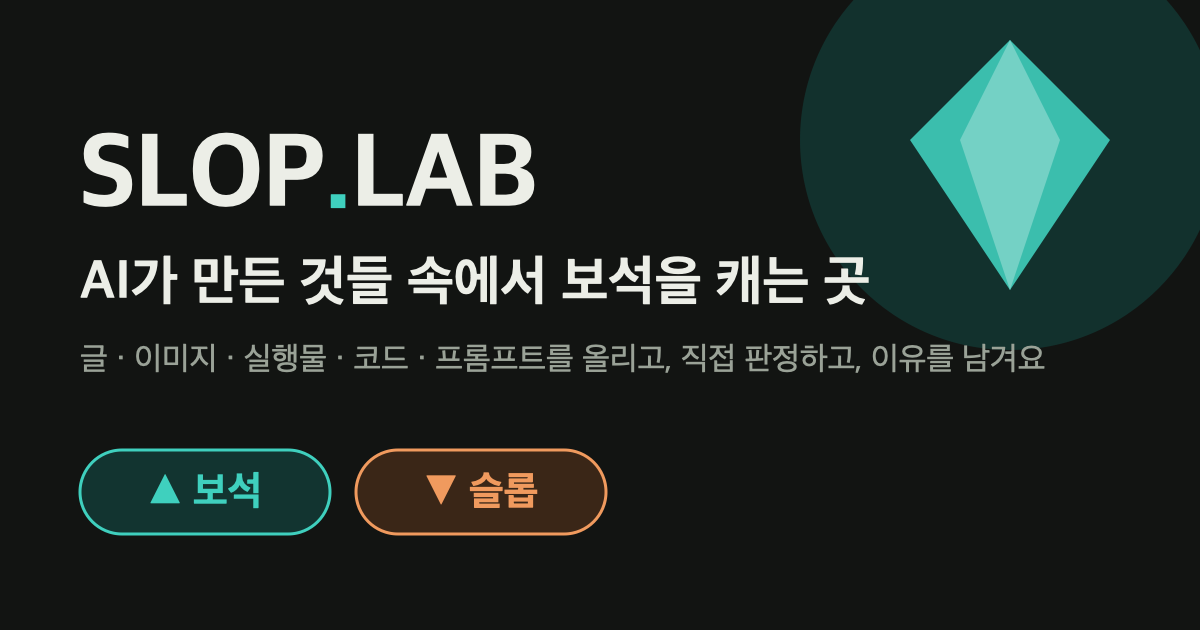
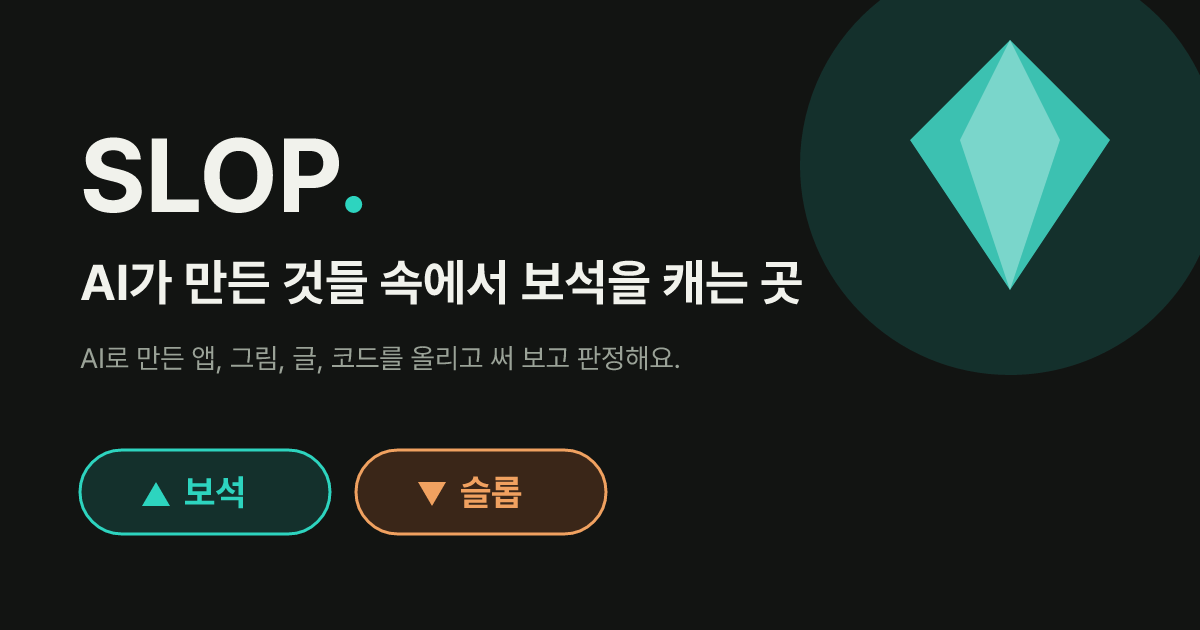
Rename Slop Lab to Slop
Display name, wordmark, preview images (og.png, og-ko.png via
scripts/build-og.mjs), preview cards, terms and privacy text, manifest and
share pages now say Slop; links point at jungtaejoon.github.io/slop.

diff --git a/src/legal-content.js b/src/legal-content.js
@@ -10,7 +10,7 @@ export const LEGAL = {
     en: {
       title: 'Terms of Service',
       body: `
-<p>Slop Lab is a free community site where people share things made with AI and judge them ▲ gem or ▼ slop. It is run by an individual, ${CONTACT.name} (“we”). By using Slop Lab you agree to these terms.</p>
+<p>Slop is a free community site where people share things made with AI and judge them ▲ gem or ▼ slop. It is run by an individual, ${CONTACT.name} (“we”). By using Slop you agree to these terms.</p>
 <h2>1. Accounts</h2>
 <ul>
 <li>You must be at least 14 years old to create an account.</li>
@@ -21,7 +21,7 @@ export const LEGAL = {
 <h2>2. Your content</h2>
 <ul>
 <li>You keep ownership of what you post: posts, apps, code, images, text, prompts and comments.</li>
-<li>You give Slop Lab a worldwide, free, non-exclusive license to host, display, run (for apps), copy and share your content on the site and in its link previews, feeds and pages, for as long as it is on Slop Lab. This also lets other members remix your post on Slop Lab, with a link back to yours.</li>
+<li>You give Slop a worldwide, free, non-exclusive license to host, display, run (for apps), copy and share your content on the site and in its link previews, feeds and pages, for as long as it is on Slop. This also lets other members remix your post on Slop, with a link back to yours.</li>
 <li>Only post things you have the right to share, and follow the terms of the AI tool you used. Say which tool made it.</li>
 </ul>
 <h2>3. Community rules</h2>
@@ -36,13 +36,13 @@ export const LEGAL = {
 <h2>4. Moderation</h2>
 <p>Moderators can hide, lock, move or delete content and restrict accounts that break these rules. Use the Report button to flag problems. We may also remove content when the law requires it.</p>
 <h2>5. Apps and code made by others</h2>
-<p>Apps posted on Slop Lab run in an isolated sandbox in your browser, but they are written by other people. Try them, and use posted code, at your own risk. Everything is provided as is.</p>
+<p>Apps posted on Slop run in an isolated sandbox in your browser, but they are written by other people. Try them, and use posted code, at your own risk. Everything is provided as is.</p>
 <h2>6. No warranty, limited liability</h2>
-<p>Slop Lab is provided as is, without warranties of any kind. To the extent the law allows, we are not liable for indirect or consequential damages, for content posted by others, or for interruptions or data loss.</p>
+<p>Slop is provided as is, without warranties of any kind. To the extent the law allows, we are not liable for indirect or consequential damages, for content posted by others, or for interruptions or data loss.</p>
 <h2>7. Ending</h2>
 <p>You can delete your account at any time in Settings. We may suspend or remove accounts that break these terms.</p>
 <h2>8. Changes</h2>
-<p>We may update these terms. We'll post the new version here with a new effective date. If you keep using Slop Lab after a change, you accept the updated terms.</p>
+<p>We may update these terms. We'll post the new version here with a new effective date. If you keep using Slop after a change, you accept the updated terms.</p>
 <h2>9. Law</h2>
 <p>These terms are governed by the laws of the Republic of Korea. Disputes go to the competent courts of the Republic of Korea.</p>
 <h2>10. Contact</h2>
@@ -51,7 +51,7 @@ export const LEGAL = {
     ko: {
       title: '이용약관',
       body: `
-<p>Slop Lab은 AI로 만든 결과물을 올리고 ▲보석 / ▼슬롭으로 판정하는 무료 커뮤니티예요. 개인 ${CONTACT.name}(이하 “운영자”)이 운영해요. Slop Lab을 이용하면 이 약관에 동의하는 것으로 봐요.</p>
+<p>Slop은 AI로 만든 결과물을 올리고 ▲보석 / ▼슬롭으로 판정하는 무료 커뮤니티예요. 개인 ${CONTACT.name}(이하 “운영자”)이 운영해요. Slop을 이용하면 이 약관에 동의하는 것으로 봐요.</p>
 <h2>1. 계정</h2>
 <ul>
 <li>만 14세 이상만 계정을 만들 수 있어요.</li>
@@ -62,7 +62,7 @@ export const LEGAL = {
 <h2>2. 내가 올린 콘텐츠</h2>
 <ul>
 <li>올린 글, 실행물, 코드, 이미지, 프롬프트, 댓글의 권리는 올린 사람에게 있어요.</li>
-<li>올린 콘텐츠가 Slop Lab에 있는 동안, Slop Lab이 사이트와 링크 미리보기·피드·페이지에서 그것을 보관하고, 보여 주고, (실행물은) 실행하고, 복제·공유할 수 있는 무료·비독점·전 세계 이용 권한을 줘요. 다른 회원이 Slop Lab 안에서 원본 링크와 함께 리믹스하는 것도 여기에 포함돼요.</li>
+<li>올린 콘텐츠가 Slop에 있는 동안, Slop이 사이트와 링크 미리보기·피드·페이지에서 그것을 보관하고, 보여 주고, (실행물은) 실행하고, 복제·공유할 수 있는 무료·비독점·전 세계 이용 권한을 줘요. 다른 회원이 Slop 안에서 원본 링크와 함께 리믹스하는 것도 여기에 포함돼요.</li>
 <li>공유할 권리가 있는 것만 올리고, 사용한 AI 도구의 약관을 지켜 주세요. 어떤 도구로 만들었는지도 밝혀 주세요.</li>
 </ul>
 <h2>3. 커뮤니티 규칙</h2>
@@ -79,7 +79,7 @@ export const LEGAL = {
 <h2>5. 다른 사람이 만든 실행물과 코드</h2>
 <p>실행물은 브라우저의 격리된 공간(샌드박스)에서 돌아가지만, 다른 사람이 만든 것이에요. 실행물과 코드는 각자 판단해서 써 주세요. 모든 것은 있는 그대로 제공돼요.</p>
 <h2>6. 보증 없음과 책임 제한</h2>
-<p>Slop Lab은 어떤 보증도 없이 있는 그대로 제공돼요. 법이 허용하는 범위에서, 운영자는 간접 손해, 다른 사람이 올린 콘텐츠, 서비스 중단이나 데이터 손실에 대해 책임지지 않아요.</p>
+<p>Slop은 어떤 보증도 없이 있는 그대로 제공돼요. 법이 허용하는 범위에서, 운영자는 간접 손해, 다른 사람이 올린 콘텐츠, 서비스 중단이나 데이터 손실에 대해 책임지지 않아요.</p>
 <h2>7. 이용 종료</h2>
 <p>설정 화면에서 언제든 계정을 삭제할 수 있어요. 약관을 어긴 계정은 정지되거나 삭제될 수 있어요.</p>
 <h2>8. 약관 변경</h2>
@@ -95,7 +95,7 @@ export const LEGAL = {
     en: {
       title: 'Privacy Policy',
       body: `
-<p>This policy explains what Slop Lab collects, why, and what you can do about it. Slop Lab is run by an individual, ${CONTACT.name}.</p>
+<p>This policy explains what Slop collects, why, and what you can do about it. Slop is run by an individual, ${CONTACT.name}.</p>
 <h2>1. What we collect</h2>
 <ul>
 <li><b>Account:</b> your email address and password. The password is stored only as a hash by our login provider (Supabase). Optional profile details: username, display name, bio.</li>
@@ -131,7 +131,7 @@ export const LEGAL = {
 <h2>7. Browser storage</h2>
 <p>We use your browser's local storage for your login session, language and display preferences, and drafts. We don't use advertising or tracking cookies.</p>
 <h2>8. Children</h2>
-<p>Slop Lab is not meant for children under 14. If you are under 14, please don't create an account.</p>
+<p>Slop is not meant for children under 14. If you are under 14, please don't create an account.</p>
 <h2>9. Security</h2>
 <p>Connections use HTTPS, passwords are hashed by Supabase, and database access rules limit who can read or change each piece of data.</p>
 <h2>10. Changes</h2>
@@ -142,7 +142,7 @@ export const LEGAL = {
     ko: {
       title: '개인정보 처리방침',
       body: `
-<p>Slop Lab(운영자: ${CONTACT.name})이 어떤 개인정보를 왜 처리하는지, 이용자가 무엇을 할 수 있는지 알려 드려요.</p>
+<p>Slop(운영자: ${CONTACT.name})이 어떤 개인정보를 왜 처리하는지, 이용자가 무엇을 할 수 있는지 알려 드려요.</p>
 <h2>1. 처리하는 개인정보</h2>
 <ul>
 <li><b>계정:</b> 이메일 주소, 비밀번호(로그인 서비스 Supabase가 암호화된 값으로만 보관해요). 선택 항목: 아이디, 표시 이름, 소개.</li>
@@ -179,7 +179,7 @@ export const LEGAL = {
 <h2>7. 자동 수집 장치(쿠키 등)</h2>
 <p>로그인 상태, 언어·보기 설정, 작성 중인 초안을 브라우저의 로컬 저장소에 저장해요. 광고·추적 쿠키는 쓰지 않아요.</p>
 <h2>8. 만 14세 미만</h2>
-<p>Slop Lab은 만 14세 미만을 대상으로 하지 않아요. 만 14세 미만이면 계정을 만들지 말아 주세요.</p>
+<p>Slop은 만 14세 미만을 대상으로 하지 않아요. 만 14세 미만이면 계정을 만들지 말아 주세요.</p>
 <h2>9. 안전성 확보 조치</h2>
 <p>모든 연결은 HTTPS로 암호화되고, 비밀번호는 Supabase가 암호화된 값으로만 보관하며, 데이터베이스 접근 규칙으로 정보마다 읽고 바꿀 수 있는 사람을 제한해요.</p>
 <h2>10. 변경</h2>

diff --git a/index.html b/index.html
@@ -4,16 +4,16 @@
   <meta charset="utf-8">
   <meta name="viewport" content="width=device-width,initial-scale=1,viewport-fit=cover">
   <!-- page-meta -->
-  <title>Slop Lab</title>
-  <meta name="description" content="Slop Lab: post AI-made apps, games, art, writing, code and prompts. Try them right on the page, vote gem or slop, and say why. AI가 만든 것들 속에서 보석을 캐는 커뮤니티.">
+  <title>Slop</title>
+  <meta name="description" content="Slop: post AI-made apps, games, art, writing, code and prompts. Try them right on the page, vote gem or slop, and say why. AI가 만든 것들 속에서 보석을 캐는 커뮤니티.">
   <meta property="og:type" content="website">
-  <meta property="og:site_name" content="Slop Lab">
+  <meta property="og:site_name" content="Slop">
   <meta property="og:locale" content="en_US">
   <meta property="og:locale:alternate" content="ko_KR">
-  <meta property="og:title" content="Slop Lab · Find the gems in AI-made stuff">
+  <meta property="og:title" content="Slop · Find the gems in AI-made stuff">
   <meta property="og:description" content="Post AI-made apps, games, art, writing and code. Try them right on the page, vote ▲ gem or ▼ slop, and say why.">
-  <meta property="og:image" content="https://jungtaejoon.github.io/slop-lab/og.png">
-  <meta property="og:url" content="https://jungtaejoon.github.io/slop-lab/">
+  <meta property="og:image" content="https://jungtaejoon.github.io/slop/og.png">
+  <meta property="og:url" content="https://jungtaejoon.github.io/slop/">
   <meta name="twitter:card" content="summary_large_image">
   <!-- /page-meta -->
   <meta name="google-site-verification" content="syOTC8ZfqRmwV8QeHG3fYtRB4T6rPhqrI0CsW6oUaZs">
@@ -24,8 +24,8 @@
   <meta name="apple-mobile-web-app-status-bar-style" content="default">
   <link rel="manifest" href="manifest.webmanifest">
   <link rel="apple-touch-icon" href="apple-touch-icon.png">
-  <meta name="apple-mobile-web-app-title" content="Slop Lab">
-  <link rel="alternate" type="application/rss+xml" title="Slop Lab 새 글" href="rss.xml">
+  <meta name="apple-mobile-web-app-title" content="Slop">
+  <link rel="alternate" type="application/rss+xml" title="Slop 새 글" href="rss.xml">
   <link rel="icon" href="icon-192.png">
   <link rel="preconnect" href="https://fonts.googleapis.com">
   <link rel="preconnect" href="https://fonts.gstatic.com" crossorigin>
@@ -37,7 +37,7 @@
     <div class="wrap">
       <div class="bar">
         <button class="hback" id="hBack" type="button" aria-label="뒤로" hidden>←</button>
-        <a class="logo" href="#/" aria-label="Slop Lab"><svg viewBox="0 0 64 64" aria-hidden="true"><defs><linearGradient id="lg" x1="0" y1="0" x2="1" y2="1"><stop offset="0" stop-color="#14B8A6"/><stop offset=".6" stop-color="#3B82C4"/><stop offset="1" stop-color="#6D5BD0"/></linearGradient></defs><rect width="64" height="64" rx="16" fill="url(#lg)"/><path d="M32 12 48 28 32 52 16 28Z" fill="#fff"/><path d="M32 12 40 28 32 52 24 28Z" fill="#000" fill-opacity=".14"/><path d="M16 28h32" stroke="#000" stroke-opacity=".12" stroke-width="1.5"/></svg><span class="wm"><b>Slop<i>.</i>Lab</b><span>AI가 만든 것들 속에서 보석을 캐는 곳</span></span></a>
+        <a class="logo" href="#/" aria-label="Slop"><svg viewBox="0 0 64 64" aria-hidden="true"><defs><linearGradient id="lg" x1="0" y1="0" x2="1" y2="1"><stop offset="0" stop-color="#14B8A6"/><stop offset=".6" stop-color="#3B82C4"/><stop offset="1" stop-color="#6D5BD0"/></linearGradient></defs><rect width="64" height="64" rx="16" fill="url(#lg)"/><path d="M32 12 48 28 32 52 16 28Z" fill="#fff"/><path d="M32 12 40 28 32 52 24 28Z" fill="#000" fill-opacity=".14"/><path d="M16 28h32" stroke="#000" stroke-opacity=".12" stroke-width="1.5"/></svg><span class="wm"><b>Slop<i>.</i></b><span>AI가 만든 것들 속에서 보석을 캐는 곳</span></span></a>
         <input class="gsearch" id="gq" type="search" placeholder="제목·내용·도구 검색  ( / )" aria-label="검색">
         <div class="sp"></div>
         <label class="langsel" title="Language / 언어"><svg viewBox="0 0 24 24" fill="none" stroke="currentColor" stroke-width="2" aria-hidden="true"><circle cx="12" cy="12" r="9"/><path d="M3 12h18M12 3a14 14 0 0 1 0 18M12 3a14 14 0 0 0 0 18"/></svg><select id="langSel" aria-label="Language / 언어"><option value="en">English</option><option value="ko">한국어</option></select></label>
@@ -50,7 +50,7 @@
   <div class="modebar" id="modeBar" hidden><div class="wrap" id="modeBarText"></div></div>
   <div class="wrap" id="banNote" hidden><div class="banner warnb" style="margin:14px 0 0"></div></div>
   <main class="wrap" id="app"></main>
-  <footer><div class="wrap"><span>Slop Lab · AI가 만든 것을 그냥 넘기지 말고, 써 보고, 판정하고, 이유를 남기는 곳</span><span class="sp"></span><nav class="foot-links" aria-label="Site"><a href="#" class="install-link" data-act="install">앱 설치</a><a href="#/terms">이용약관</a><a href="#/privacy">개인정보 처리방침</a><a href="https://github.com/jungtaejoon/slop-lab" target="_blank" rel="noopener">GitHub</a></nav></div></footer>
+  <footer><div class="wrap"><span>Slop · AI가 만든 것을 그냥 넘기지 말고, 써 보고, 판정하고, 이유를 남기는 곳</span><span class="sp"></span><nav class="foot-links" aria-label="Site"><a href="#" class="install-link" data-act="install">앱 설치</a><a href="#/terms">이용약관</a><a href="#/privacy">개인정보 처리방침</a><a href="https://github.com/jungtaejoon/slop" target="_blank" rel="noopener">GitHub</a></nav></div></footer>
   <div class="dlg-back" id="dlg" hidden><form class="dlg" id="dlgForm" role="dialog" aria-modal="true"></form></div>
   <div class="toast" id="toast" role="status" hidden></div>
   <script type="module" src="/src/main.js"></script>

diff --git a/src/i18n.js b/src/i18n.js
@@ -17,7 +17,7 @@ const D = {
   // header, nav, footer
   'AI가 만든 것들 속에서 보석을 캐는 곳': 'Find the gems in AI-made stuff',
   '제목·내용·도구 검색 ( / )': 'Search titles, text, tools ( / )', '검색': 'Search', '글쓰기': 'Post', '게시판': 'Boards',
-  'Slop Lab · AI가 만든 것을 그냥 넘기지 말고, 써 보고, 판정하고, 이유를 남기는 곳': "Slop Lab · Don't just scroll past AI-made work. Try it, judge it, say why.",
+  'Slop · AI가 만든 것을 그냥 넘기지 말고, 써 보고, 판정하고, 이유를 남기는 곳': "Slop · Don't just scroll past AI-made work. Try it, judge it, say why.",
   '홈': 'Home', '인기': 'Popular', '판정하기': 'Judge', '보석함': 'Gems', '커뮤니티 찾기': 'Communities', '저장함': 'Saved', '운영': 'Moderation',
   '데모 시작': 'Try demo', '로그인': 'Log in', '알림': 'Notifications', '관리자': 'admin', '운영자': 'moderator',
   '내 프로필': 'My profile', '프로필 설정': 'Profile settings', '커뮤니티 만들기': 'Create community', '로그아웃': 'Log out', '로그아웃했어요': 'Logged out',
@@ -50,7 +50,7 @@ const D = {
   '팔로우 중': 'Following', '팔로우': 'Follow', '커뮤니티': 'Community', '팔로우를 끊었어요': 'Unfollowed',
   '저장하지 못했어요. 다시 시도해 주세요.': "Couldn't save. Please try again.", '작성이 제한된 계정이에요.': 'This account is restricted from posting.', '작성이 제한된 계정이에요': 'This account is restricted from posting',
   '권한이 없어요.': "You don't have permission.", '이미 쓰이고 있는 값이에요.': 'That is already taken.', '커뮤니티는 하루에 두 개까지 만들 수 있어요.': 'You can create up to two communities a day.',
-  '로그인이 필요해요': 'Please log in', 'Slop Lab 예시': 'Slop Lab example', '탈퇴한 사용자': 'Deleted user', '(나)': '(you)', '자세한 내용 (선택)': 'Details (optional)', '취소': 'Cancel',
+  '로그인이 필요해요': 'Please log in', 'Slop 예시': 'Slop example', '탈퇴한 사용자': 'Deleted user', '(나)': '(you)', '자세한 내용 (선택)': 'Details (optional)', '취소': 'Cancel',
   '보석: 가치 있음': 'Gem: worth it', '슬롭: 가치 없음': 'Slop: not worth it', '보석': 'Gem', '슬롭': 'Slop', '아직 판정 없음': 'No verdicts yet',
   '▲ 보석이다': '▲ Gem', '▼ 슬롭이다': '▼ Slop', '판정하려면 로그인해 주세요': 'Log in to judge', '판정을 저장하지 못했어요': "Couldn't save your verdict",
   '저장하려면 로그인해 주세요': 'Log in to save', '저장됨': 'Saved', '저장': 'Save', '저장함에 넣었어요': 'Saved', '저장함에서 뺐어요': 'Removed from saved',
@@ -190,7 +190,7 @@ const D = {
   '반영함으로 표시했어요': 'Marked as addressed', '커뮤니티 판정': 'Community verdict', '토론 요약': 'Discussion summary',
   '댓글과 판정을 Claude가 정리해 줘요. 어디가 보석이고 어디가 슬롭인지 한눈에 봐요.': 'Claude sums up the comments and votes: what is gem and what is slop, at a glance.',
   '댓글이 생기면 요약할 수 있어요': 'Available once there are comments', '다시 요약': 'Summarize again', '요약하기': 'Summarize', '수정 이력': 'Version history', '메모 없음': 'no note',
-  '이 글의 리믹스': 'Remixes', '작성 정보': 'About this post', 'Slop Lab이 게시판 사용법을 보여 주려고 Claude로 만들어 올린 예시예요. 판정과 의견은 실제로 남길 수 있어요.': 'An example Slop Lab made with Claude to show how things work. Votes and comments are real.',
+  '이 글의 리믹스': 'Remixes', '작성 정보': 'About this post', 'Slop이 게시판 사용법을 보여 주려고 Claude로 만들어 올린 예시예요. 판정과 의견은 실제로 남길 수 있어요.': 'An example Slop made with Claude to show how things work. Votes and comments are real.',
   '요약하려면 로그인해 주세요': 'Log in to summarize', '정리하는 중…': 'Summarizing…', '요약하지 못했어요.': "Couldn't summarize.",
   // guests, limits, empty states, share
   '판정(▲/▼)은 가입하지 않아도 할 수 있어요. 글과 댓글을 쓰려면 가입해 주세요.': 'You can judge (▲/▼) without an account. Sign up to post and comment.',

diff --git a/src/views/feed.js b/src/views/feed.js
@@ -14,7 +14,7 @@ export async function renderFeed() {
     c = commBySlug(v.slug);
     if (!c) { app.innerHTML = '<div class="skel" style="height:140px"></div>'; try { c = remember(await api.getCommunity(v.slug)); } catch { /* shown below */ } if (my !== feedToken || S.view !== v) return; }
     if (!c) { app.innerHTML = `<div class="empty"><h2>"${esc(v.slug)}" 커뮤니티가 없어요</h2><p class="muted">주소를 확인하거나, 직접 만들어 보세요.</p><a class="btn pri" href="#/communities/new">커뮤니티 만들기</a> <a class="btn" href="#/communities">커뮤니티 찾기</a></div>`; return; }
-    v.communityId = c.id; document.title = `${tr(c.name)} · Slop Lab`;
+    v.communityId = c.id; document.title = `${tr(c.name)} · Slop`;
   }
   // home falls back to popular for visitors and members who follow nothing
   const homeFallback = v.special === 'home' && (!api.me || !followIds().length);
@@ -144,7 +144,7 @@ async function renderSide(c) {
         <div class="row">${followBtn(c, true)}${canWrite() ? `<a class="btn sm" href="#/submit/${esc(c.slug)}">글쓰기</a>` : ''}<button class="btn sm ghost" data-act="sharec" data-slug="${esc(c.slug)}" data-title="${esc(c.name)}">공유</button>${isCommunityMod(c.id) ? `<a class="btn sm ghost" href="#/c/${esc(c.slug)}/settings">커뮤니티 설정</a>` : ''}</div></section>
       ${c.rules ? `<section class="panel"><h2>규칙</h2><div class="md" style="font-size:13.5px">${md(c.rules)}</div></section>` : ''}
       ${mods?.length ? `<section class="panel"><h2>운영자</h2><div class="chips" style="flex-direction:column;align-items:flex-start;gap:6px">${mods.map((m) => who(m)).join('')}</div></section>` : ''}`
-      : `<section class="panel"><h2>Slop Lab</h2><p>AI가 만든 결과물을 그냥 넘기지 말고, 써 보고, 판정하고, 이유를 남기는 커뮤니티예요. 주제별 커뮤니티를 팔로우하고, 없으면 직접 만들어요.</p>
+      : `<section class="panel"><h2>Slop</h2><p>AI가 만든 결과물을 그냥 넘기지 말고, 써 보고, 판정하고, 이유를 남기는 커뮤니티예요. 주제별 커뮤니티를 팔로우하고, 없으면 직접 만들어요.</p>
         <div class="statrow"><div><b>${st ? st.posts : '–'}</b><span>게시글</span></div><div><b>${st ? st.gems : '–'}</b><span>보석</span></div>${ps ? `<div><b>${ps.karma}</b><span>내 판정 점수</span></div>` : ''}</div>
         <a class="btn gem block" href="#/judge" style="margin-bottom:8px">판정하기: 한 장씩 넘기며 판정</a>
       ${canWrite() ? '<div class="row"><a class="btn pri sm" href="#/submit">글쓰기</a><a class="btn sm" href="#/communities/new">커뮤니티 만들기</a></div>' : !api.me ? '<a class="btn block" href="#/login">로그인하고 참여하기</a>' : ''}</section>`)

diff --git a/src/core.js b/src/core.js
@@ -57,8 +57,8 @@ export async function toggleFollow(cid) {
   catch (e) { on ? S.my.delete(cid) : S.my.set(cid, 'member'); if (c) c.members += on ? -1 : 1; sync(); toast(errMsg(e)); }
 }
 export const followBtn = (c, sm) => c ? `<button class="btn${sm ? ' sm' : ''}${S.my.has(c.id) ? '' : ' pri'}" data-act="follow" data-id="${c.id}">${S.my.has(c.id) ? '팔로우 중' : '팔로우'}</button>` : '';
-// The app lives at BASE_PATH (e.g. /slop-lab/). Posts and communities also exist as real
-// paths (/slop-lab/p/<id>/, /slop-lab/c/<slug>/), built for search engines and link previews.
+// The app lives at BASE_PATH (e.g. /slop/). Posts and communities also exist as real
+// paths (/slop/p/<id>/, /slop/c/<slug>/), built for search engines and link previews.
 // Those pages load this same app, which then takes the route from the path (no hash yet).
 export const BASE_PATH = new URL(document.baseURI).pathname.replace(/[^/]*$/, '');
 export function currentHash() {
@@ -97,7 +97,7 @@ export function avatarHtml(a, size = 16) {
   return `<span class="av av-fallback" style="width:${size}px;height:${size}px">${esc(ch)}</span>`;
 }
 export function who(a, isExample) {
-  if (!a) return `<span class="who">${avatarHtml({ name: 'S' })}<span>${isExample ? 'Slop Lab 예시' : '탈퇴한 사용자'}</span></span>`;
+  if (!a) return `<span class="who">${avatarHtml({ name: 'S' })}<span>${isExample ? 'Slop 예시' : '탈퇴한 사용자'}</span></span>`;
   return `<a class="who" href="#/u/${esc(a.username)}">${avatarHtml(a)}<span>${esc(a.name)}${api.me?.id === a.id ? ' (나)' : ''}</span></a>`;
 }
 
@@ -188,7 +188,7 @@ export function report(t, id) {
 export const shareUrl = (path) => `${location.origin}${BASE_PATH}${path}`;
 
 export function openShare(path, title, lead = '') {
-  const url = shareUrl(path), text = lang === 'en' ? `${tt(title)} | Gem or slop? Judge it on Slop Lab` : `${title} | Slop Lab에서 보석인지 슬롭인지 판정해 주세요`;
+  const url = shareUrl(path), text = lang === 'en' ? `${tt(title)} | Gem or slop? Judge it on Slop` : `${title} | Slop에서 보석인지 슬롭인지 판정해 주세요`;
   title = lang === 'en' ? tt(title) : title;
   if (navigator.share && matchMedia('(pointer:coarse)').matches) { navigator.share({ title, text, url }).catch(() => {}); return; }
   const e = encodeURIComponent, d = $('#dlg'), f = $('#dlgForm'), back = document.activeElement;

diff --git a/src/views/post.js b/src/views/post.js
@@ -19,7 +19,7 @@ export async function renderPost(v) {
     if (S.d !== d) return;
     if (post.community) { remember(post.community); $('#crumb').href = '#/c/' + post.community.slug; $('#crumb').textContent = '← ' + post.community.name; }
     if (isMod()) api.listCommunities({ limit: 200 }).then((l) => { l.forEach(remember); if (S.d === d) drawArticle(); }).catch(() => {});
-    document.title = `${post.title} · Slop Lab`;
+    document.title = `${post.title} · Slop`;
     drawArticle(); drawThread(); drawSide();
     let t; d.unsub = api.subscribeComments(v.id, () => { clearTimeout(t); t = setTimeout(reloadComments, 400); });
     api.listRemixes(v.id).then((r) => { if (S.d === d) { d.remixes = r; drawSide(); } }).catch(() => {});
@@ -187,7 +187,7 @@ function drawSide() {
     ${d.versions.length > 1 ? `<section class="panel"><h2>수정 이력</h2><div class="hist">${d.versions.slice().reverse().map((x) => `<a href="#/p/${p.id}/v/${x.n}" aria-current="${x.n === v?.n}"><b class="mono">v${x.n}</b><div><div${x.note ? ' data-ugc' : ''}>${esc(x.note || '메모 없음')}</div><div class="m">${ago(x.createdAt)} · 이 버전에 단 의견 ${d.comments.filter((c) => c.version === x.n).length}</div></div></a>`).join('')}</div></section>` : ''}
     ${d.remixes?.length ? `<section class="panel"><h2>이 글의 리믹스</h2><div class="hist">${d.remixes.map((x) => `<a href="#/p/${x.id}"><b class="mono">${x.score}</b><div><span data-ugc>${esc(x.title)}</span><div class="m">${ago(x.createdAt)}</div></div></a>`).join('')}</div></section>` : ''}
     <section class="panel"><h2>작성 정보</h2><p>${who(p.author, p.isExample)}</p><p>${p.community ? `<span>${esc(p.community.name)}</span> · ` : ''}<span>${esc(KINDS[p.kind]?.[0] || '')}</span>${p.tool ? ` · <span data-ugc>${esc(p.tool)}</span>` : ''}</p>
-      ${p.isExample ? '<p>Slop Lab이 게시판 사용법을 보여 주려고 Claude로 만들어 올린 예시예요. 판정과 의견은 실제로 남길 수 있어요.</p>' : ''}</section>`;
+      ${p.isExample ? '<p>Slop이 게시판 사용법을 보여 주려고 Claude로 만들어 올린 예시예요. 판정과 의견은 실제로 남길 수 있어요.</p>' : ''}</section>`;
   const sg = $('#sumGo'); if (sg) sg.onclick = () => summarize(sg);
 }
 

diff --git a/src/views/pages.js b/src/views/pages.js
@@ -109,7 +109,7 @@ export async function renderProfile(v) {
     ${mine ? '<a class="btn" href="#/settings">프로필 설정</a>' : ''}</div>
     <h2 style="margin:0 0 10px">올린 글</h2>
     ${list.posts.length ? `<div class="list">${list.posts.map(postRow).join('')}</div>` : `<div class="banner">${mine ? '아직 올린 글이 없어요. <a href="#/submit">첫 글을 올려 보세요.</a>' : '아직 올린 글이 없어요.'}</div>`}`;
-  document.title = `${p.name} · Slop Lab`;
+  document.title = `${p.name} · Slop`;
   setupPreviews(app);
 }
 
@@ -133,5 +133,5 @@ export function renderLegal(doc) {
   if (!d) { replaceTo('/'); return; }
   app.innerHTML = `<article class="legal" data-ugc lang="${L}"><h1>${d.title}</h1><p class="muted">${L === 'ko' ? '시행일' : 'Effective'}: ${EFFECTIVE[L]}</p>${d.body}
     <p class="muted" style="margin-top:28px"><a href="#/${other}">${LEGAL[other][L].title} →</a></p></article>`;
-  document.title = `${d.title} · Slop Lab`;
+  document.title = `${d.title} · Slop`;
 }

diff --git a/public/sw.js b/public/sw.js
@@ -1,4 +1,4 @@
-// Slop Lab service worker: lets the site install as a phone app and reopen fast.
+// Slop service worker: lets the site install as a phone app and reopen fast.
 // - Build files under assets/ have hashed names and never change: cache first.
 // - Pages: network first; offline, the last copy (or the app shell) is shown.
 // - Icons, preview images, examples: network first with a cached fallback.
@@ -6,7 +6,7 @@
 // Visiting any page with ?nosw unregisters it (kill switch, handled in main.js).
 const VERSION = 'v1';
 const SHELL = `shell-${VERSION}`, STATIC = `static-${VERSION}`;
-const BASE = new URL(self.registration.scope).pathname; // e.g. /slop-lab/
+const BASE = new URL(self.registration.scope).pathname; // e.g. /slop/
 
 self.addEventListener('install', (e) => {
   e.waitUntil(caches.open(SHELL).then((c) => c.addAll([BASE, `${BASE}manifest.webmanifest`, `${BASE}icon-192.png`])).then(() => self.skipWaiting()));

diff --git a/src/main.js b/src/main.js
@@ -42,7 +42,7 @@ async function route() {
   if (prev.name === 'post' && !(v.name === 'post' && v.id === prev.id)) closePost();
   if (prev.name === 'compose' && location.hash !== S.c?.hash) closeCompose();
   S.view = v; renderBoards(); trackView(v);
-  if (v.name !== 'post') document.title = 'Slop Lab';
+  if (v.name !== 'post') document.title = 'Slop';
   const samePage = prev.name === v.name && prev.id === v.id && prev.slug === v.slug && prev.special === v.special;
   if (!samePage) scrollTo(0, 0);
   if (v.name === 'feed') return renderFeed();

diff --git a/README.md b/README.md
@@ -1,4 +1,4 @@
-# Slop Lab
+# Slop
 
 AI가 만든 글·이미지·실행물·코드·링크를 게시판별로 올리고, **▲보석 / ▼슬롭**으로 판정하고, 스레드 토론으로 가치 있는 것을 가려내는 커뮤니티 사이트예요.
 
